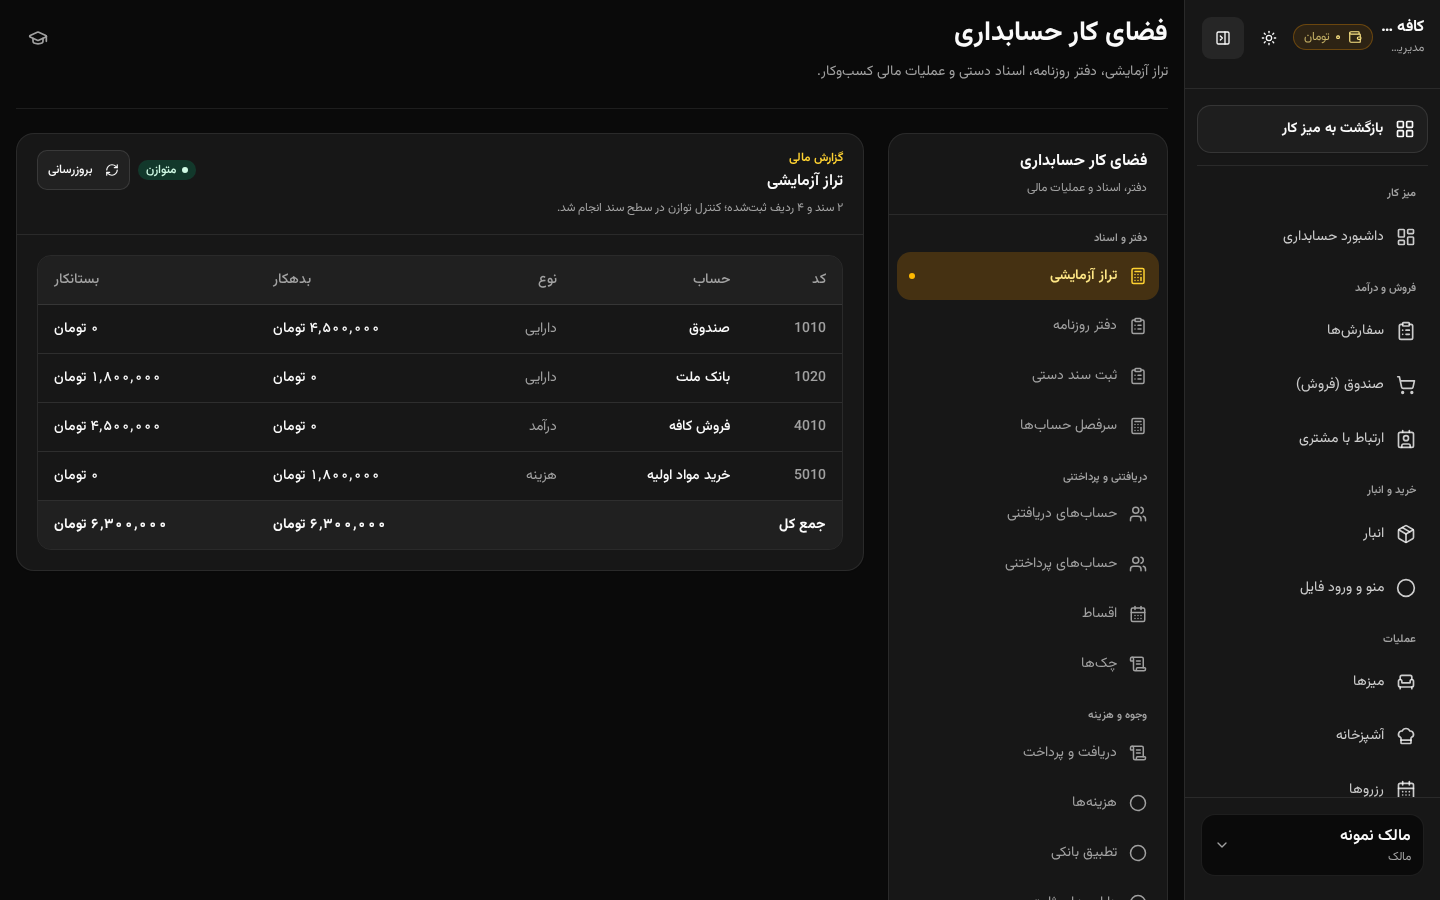
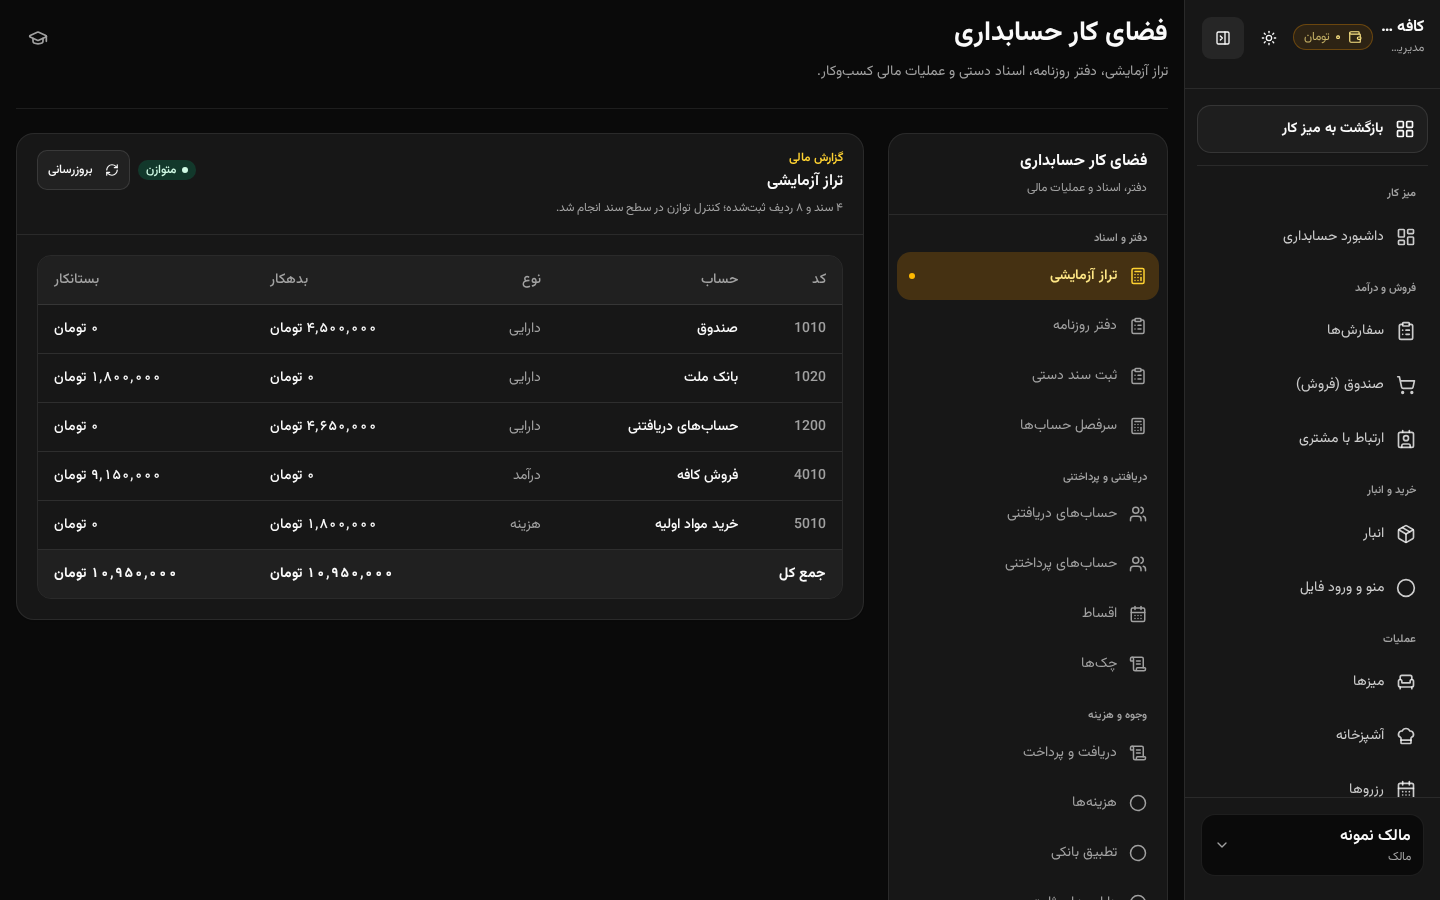
test(visual): cover migrated tables with three ledger baselines
The eleven existing baselines passed the table migration byte-identical
because none of them rendered a migrated table, so that run was not
evidence. Add chart-of-accounts, expenses and receivables.

Two of the three first photographed empty states, so extend the visual
fixture with expenses and receivable-raising cheques (A/R balances are
derived from journal lines on account 1200 via the originating cheque,
not stored on the party). The new 1200/5020 accounts add one reviewed
row to the trial-balance baselines.

Add an `anchor` option so a screen can scroll the element under test
into frame rather than photographing the form above it.

diff --git a/scripts/seed-visual-fixture.ts b/scripts/seed-visual-fixture.ts
@@ -67,6 +67,11 @@ async function main() {
       { code: "1020", name: "بانک ملت", type: "asset" },
       { code: "4010", name: "فروش کافه", type: "revenue" },
       { code: "5010", name: "خرید مواد اولیه", type: "expense" },
+      // 1200 is WELL_KNOWN_CODES.accountsReceivable — the A/R screens read
+      // balances from journal lines posted to exactly this code, so without it
+      // «حسابهای دریافتنی» photographs as an empty state.
+      { code: "1200", name: "حسابهای دریافتنی", type: "asset" },
+      { code: "5020", name: "اجاره محل", type: "expense" },
     ];
     const accountIds = new Map<string, string>();
     for (const account of ACCOUNTS) {
@@ -216,9 +221,97 @@ async function main() {
       );
     }
 
+    // ---- Expenses ----------------------------------------------------------
+    // The «هزینهها» register reads the `expenses` table directly, so the
+    // journal entries above do not populate it. Three rows: two categories,
+    // two payment accounts, one with a vendor and one without, which is what
+    // makes the "طرف حساب" column's «—» fallback visible in the baseline.
+    const EXPENSES: Array<{
+      memo: string;
+      date: string;
+      amount: number;
+      account: string;
+      paymentAccount: string;
+      vendor: string | null;
+    }> = [
+      { memo: "اجاره اسفند", date: "2026-03-05", amount: 240_000_000, account: "5020", paymentAccount: "1020", vendor: "املاک مرکزی" },
+      { memo: "خرید دانه قهوه", date: "2026-03-12", amount: 18_000_000, account: "5010", paymentAccount: "1010", vendor: "پخش مواد غذایی آریا" },
+      { memo: "هزینه حمل", date: "2026-03-14", amount: 3_500_000, account: "5010", paymentAccount: "1010", vendor: null },
+    ];
+    for (const expense of EXPENSES) {
+      const existing = await client.query(
+        "SELECT id FROM expenses WHERE business_id = $1 AND memo = $2",
+        [businessId, expense.memo],
+      );
+      if (existing.rowCount) continue;
+      await client.query(
+        `INSERT INTO expenses (business_id, location_id, account_id, payment_account_id, amount, expense_date, vendor, memo, created_at)
+         VALUES ($1, $2, $3, $4, $5, $6, $7, $8, $9)`,
+        [
+          businessId,
+          locationId,
+          accountIds.get(expense.account),
+          accountIds.get(expense.paymentAccount),
+          expense.amount,
+          expense.date,
+          expense.vendor,
+          expense.memo,
+          T0,
+        ],
+      );
+    }
+
+    // ---- Accounts receivable -----------------------------------------------
+    // A/R balances are derived, not stored: `listCustomerBalances` sums journal
+    // lines on account 1200 and attributes each to a party through the order,
+    // receipt or cheque the entry came from. A cheque is the cheapest of the
+    // three to seed, so each customer gets one receivable-raising entry.
+    const RECEIVABLES: Array<{ customer: string; amount: number; serial: string; due: string }> = [
+      { customer: "سارا محمدی", amount: 32_000_000, serial: "۸۸۱۲۳۴", due: "2026-04-20" },
+      { customer: "رضا کریمی", amount: 14_500_000, serial: "۸۸۱۲۳۵", due: "2026-05-02" },
+    ];
+    for (const receivable of RECEIVABLES) {
+      const existing = await client.query(
+        "SELECT id FROM cheques WHERE business_id = $1 AND serial_number = $2",
+        [businessId, receivable.serial],
+      );
+      if (existing.rowCount) continue;
+      const cheque = await client.query(
+        `INSERT INTO cheques (business_id, location_id, direction, status, serial_number, bank_name,
+                              amount, issue_date, due_date, counterparty_name, customer_id, created_at, updated_at)
+         VALUES ($1, $2, 'receivable', 'on_hand', $3, 'بانک ملت', $4, '2026-03-08', $5, $6, $7, $8, $8)
+         RETURNING id`,
+        [
+          businessId,
+          locationId,
+          receivable.serial,
+          receivable.amount,
+          receivable.due,
+          receivable.customer,
+          partyIds.get(receivable.customer),
+          T0,
+        ],
+      );
+      const entry = await client.query(
+        `INSERT INTO journal_entries (business_id, location_id, entry_date, memo, source_type, source_id, posted_at)
+         VALUES ($1, $2, '2026-03-08', $3, 'cheque', $4, $5) RETURNING id`,
+        [businessId, locationId, `چک دریافتی ${receivable.customer}`, cheque.rows[0].id, T0],
+      );
+      // Debit A/R, credit sales — the customer owes this amount.
+      for (const line of [
+        { code: "1200", debit: receivable.amount, credit: 0 },
+        { code: "4010", debit: 0, credit: receivable.amount },
+      ]) {
+        await client.query(
+          "INSERT INTO journal_lines (entry_id, account_id, debit, credit) VALUES ($1, $2, $3, $4)",
+          [entry.rows[0].id, accountIds.get(line.code), line.debit, line.credit],
+        );
+      }
+    }
+
     await client.query("COMMIT");
     console.log(
-      "Visual fixture ready: 4 accounts, 2 journal entries, 3 inventory items, 3 parties, 3 deals.",
+      "Visual fixture ready: 6 accounts, 4 journal entries, 3 inventory items, 3 parties, 3 deals, 3 expenses, 2 receivables.",
     );
   } catch (error) {
     await client.query("ROLLBACK");

diff --git a/docs/design/test-results.md b/docs/design/test-results.md
@@ -13,7 +13,7 @@ so rather than implying it passed.
 | `npm run test:design` | **4 files / 34 tests passed** | `design-lint` (14) + app `design-lint` (9) + `primitive-lint` (5) + `loading-coverage` (6). |
 | `npm run test:db` | **110 files / 1181 passed, 1 skipped** | Integration suite against the embedded Postgres. |
 | `npm run build` | **clean** | Full production build; every route compiled. |
-| `npm run test:visual` | **11/11 screens match; 8 consecutive runs clean** | Baselines recorded, reviewed and committed. |
+| `npm run test:visual` | **14/14 screens match** | Baselines recorded, reviewed and committed. |
 
 One transient failure is worth recording because the next person will hit it:
 `src/app/route-tree.test.ts` → "agrees with the production build" fails against a
@@ -23,9 +23,22 @@ this change.
 
 ## Visual regression — run, reviewed, committed
 
-The harness runs. All 11 baselines in `docs/design/visual/` were recorded
+The harness runs. All 14 baselines in `docs/design/visual/` were recorded
 against a **production build** with the deterministic fixture, opened and looked
 at one by one, and committed as approvals.
+
+**The last three exist because the first eleven proved nothing about the table
+migration.** After the migration landed, the suite reported "11 screens match"
+— byte-identical. Reading that as a pass would have been wrong: going through
+the screen list showed that *not one of the eleven rendered a migrated table*,
+so the green run was over untouched code. Three ledger registers were added —
+`accounting-chart-of-accounts`, `accounting-expenses`, `accounting-receivables`
+— and two of them then photographed **empty states**, which would have frozen
+nothing either. `scripts/seed-visual-fixture.ts` was extended with three
+expenses and two receivable-raising cheques, and the two baselines re-recorded.
+That extension also added accounts `1200` and `5020`, which legitimately changed
+the two `accounting-trial-balance` baselines (one extra row, still balanced);
+both were re-read before being re-approved.
 
 A browser was obtained by extracting the Chromium that ships inside the
 `@sparticuz/chromium` npm package (Playwright's own CDN and the Azure mirror are
@@ -218,8 +231,9 @@ Note for whoever reads the HTML: the server response for these screens is the
 waits for the skeletons to disappear *and* for the DOM to settle before it
 captures, and why grepping the SSR HTML for table markup finds nothing.
 
-Beyond the status codes, all 11 baseline screenshots were opened and read —
-which is how the two bugs above were found.
+Beyond the status codes, all 14 baseline screenshots were opened and read —
+which is how the two bugs above, the two empty-state baselines and the expenses
+column clipping were found.
 
 ## Lint enforcement was tested, not assumed
 
@@ -232,21 +246,35 @@ cannot be silently grown. The probe was deleted.
 
 ## Remaining deviations
 
-Stated plainly: **the platform is not fully migrated.** What remains, in the
-order it should be done, is the Batch A–E checklist in
-[`docs/design/coverage-matrix.md`](coverage-matrix.md). The headline items:
+**The table migration is finished.** Every hand-rolled table in the four tenant
+apps composes `DataTable`, across 35 tables in 28 files. The
+`TABLE_MIGRATION_BACKLOG` exception list was **deleted rather than shortened**:
+the lint rule is now unconditional, so any new `<thead>` in a non-operational
+tenant file fails immediately. That was re-verified after the constant was
+removed by reintroducing a hand-rolled `<thead>` and watching the rule name the
+file and line.
 
-1. **28 files still hand-roll a table** (`TABLE_MIGRATION_BACKLOG`). They are
-   named, grouped and ordered; the list can only shrink. Migrate
-   `dashboard/reports/report-table.tsx` first — three of the four reports files
-   are its consumers.
+What still deviates, in the order it should be done, is in
+[`docs/design/coverage-matrix.md`](coverage-matrix.md):
+
+1. **The expenses register clips its amount column at 1440px.** Its table sets
+   `tableClassName="min-w-[56rem]"` inside a content column narrower than that,
+   so `DataTable`'s `overflow-x-auto` kicks in and the right-hand money column
+   scrolls out of frame — visible in the `accounting-expenses` baseline. This is
+   pre-existing (the `min-w` came over unchanged from the hand-rolled table; the
+   migration did not introduce it) and it is a real horizontal scroll, not a
+   broken layout. Fixing it means deciding which of its seven columns collapses
+   first, which is a content decision, so it was not changed blind. Recorded
+   here rather than hidden by re-framing the screenshot.
 2. **Six search fields** still position their own magnifier. Each differs from
    `SearchField` in a real way (clear button at a different offset, a combobox,
    a nav filter), so they need the component to grow a prop rather than a
    copy-paste. Left deliberately.
 3. **~15 mobile card fallbacks** duplicate each other's shape beside the tables.
    A `DataTableMobileList` would remove them; they are live and each renders
-   different fields, so they were not touched blind.
+   different fields, so they were not touched blind. Note that migrating the
+   tables did *not* touch these: keeping the two halves separate is what made
+   the table diffs reviewable.
 4. **The "token conflict" was a misdiagnosis — resolved, no change needed.**
    An earlier pass in this work flagged `globals.css` defining `--primary` and
    `--ring` as teal (`oklch(0.52 0.1 205)`) while the screenshots and
@@ -283,4 +311,4 @@ order it should be done, is the Batch A–E checklist in
 3. `src/app/dashboard/primitive-lint.test.ts` — the rules, the exemptions and
    the backlog constant. The exemptions are where a lint like this goes wrong,
    so they carry their reasons inline.
-4. The deviations above, and whether item 4 should block or follow.
+4. The deviations above, and whether item 5 should block or follow.

diff --git a/docs/design/coverage-matrix.md b/docs/design/coverage-matrix.md
@@ -70,54 +70,56 @@ pattern, not drift — a per-section header would double up.
 | Dashboard → media manager | Hand-rolled chips | `FilterChip` |
 | 79 files across all apps | Hardcoded `stone-*` light/dark pairs | Theme tokens that flip automatically |
 
-## Remaining work — ordered checklist
+## Table migration — complete
 
-Every item is enforced by `TABLE_MIGRATION_BACKLOG` in
-`src/app/dashboard/primitive-lint.test.ts`: the rule is live, these files are
-named exceptions, and removing an entry is how the work is marked done. **A new
-hand-rolled table in any other file fails the check today.**
+Every hand-rolled table in the tenant-facing apps now composes `DataTable`.
+`TABLE_MIGRATION_BACKLOG` — the named-exception list that tracked this work —
+**has been deleted**, because there is nothing left on it. The rule in
+`src/app/dashboard/primitive-lint.test.ts` is now unconditional: any `<thead>`
+in a non-operational tenant file that does not import `DataTable` fails the
+check. That was verified by reintroducing one and watching it fail with the
+file and line.
 
-### Batch A — Accounting ledger tables (13 files, highest impact)
+| Batch | Files | Tables | Status |
+| --- | --- | --- | --- |
+| A — Accounting ledger | 13 | 15 | **done** |
+| B — Inventory, stock, products | 7 | 10 | **done** |
+| C — Reports | 4 | 6 | **done** |
+| D — Long tail | 4 | 4 | **done** |
 
-- [ ] `(app)/accounting/entries-section.tsx` — journal register
-- [ ] `(app)/accounting/chart-of-accounts-section.tsx`
-- [ ] `(app)/accounting/expense-section.tsx`
-- [ ] `(app)/accounting/receipts-payments-section.tsx`
-- [ ] `(app)/accounting/ar-section.tsx` and `ar-statement-panel.tsx`
-- [ ] `(app)/accounting/ap-section.tsx` and `ap-statement-panel.tsx`
-- [ ] `(app)/accounting/account-statement-panel.tsx`
-- [ ] `(app)/accounting/reconciliation-section.tsx`
-- [ ] `(app)/accounting/fiscal-periods-section.tsx`
-- [ ] `(app)/accounting/fixed-assets-section.tsx`
-- [ ] `(app)/accounting/installments-section.tsx`
+Batch B and C swapped order against the original plan: the inventory tables
+were near-duplicates of each other and of the accounting ones just finished, so
+doing them second kept the conversion in one mental model, while Reports needed
+a design decision (below) that was better taken with more of the product
+already migrated.
 
-### Batch B — Reports (4 files, one shared component)
+Two things worth knowing before touching this area again:
 
-- [ ] `dashboard/reports/report-table.tsx` — migrate this **first**; the other
-      three are its consumers and may need no change afterwards
-- [ ] `dashboard/reports/ledger-report-view.tsx`
-- [ ] `dashboard/reports/drill-down-panel.tsx`
-- [ ] `dashboard/reports/shift-orders-section.tsx`
+- **`report-table.tsx` was not replaced.** It is the reports section's own
+  declarative table — columns as data, desktop grid and phone cards generated
+  from one declaration — and that is a genuinely better abstraction for those
+  screens. It now composes `DataTable` internally, so its three consumers
+  inherit the shared chrome without changing a line.
+- **The primitive grew exactly two props**, each forced by a real caller:
+  `DataTable frame={false}` for a table that sits inside a `flush` SectionCard
+  and would otherwise draw a hairline inside a hairline, and `Th scope="row"`
+  for a totals row that labels its figures with a row header. Both keep their
+  previous behaviour as the default.
 
-### Batch C — Inventory, stock and products (7 remaining of 8)
+### What the conversion changed beyond deduplication
 
-- [ ] `dashboard/inventory/documents-section.tsx`
-- [ ] `dashboard/inventory/purchases-section.tsx`
-- [ ] `dashboard/inventory/stock-section.tsx`
-- [ ] `dashboard/stock/documents-section.tsx`
-- [ ] `dashboard/stock/stock-levels-section.tsx`
-- [x] `dashboard/stock/warehouses-section.tsx` — done in this PR
-- [ ] `dashboard/products/price-lists-section.tsx`
-- [ ] `dashboard/products/products-list-section.tsx`
+- **Accessible names.** `DataTable` makes `caption` required. Most of these
+  tables had none and presented to a screen reader as an unnamed grid.
+- **Money columns are end-aligned.** The approved trial-balance screenshot
+  shows them that way; the majority of the migrated tables had them
+  start-aligned.
+- **Judgement the mapping could not make.** A Jalali date carrying
+  `tabular-nums` is *not* a numeric column — it keeps tabular figures and stays
+  start-aligned. Nor is an end-aligned action column: it says `text-end`
+  directly rather than borrowing `numeric` and picking up tabular figures and a
+  medium weight. Same for two-line quantity cells.
 
-### Batch D — Long tail (4 files)
-
-- [ ] `dashboard/parties/parties-section.tsx`
-- [ ] `dashboard/locations/locations-manager.tsx`
-- [ ] `dashboard/backup/backup-manager.tsx`
-- [ ] `setup/accounts/page.tsx`
-
-### Batch E — Not yet covered by any automated rule
+### Remaining — not yet covered by any automated rule
 
 - [x] **Search fields**: the four files whose markup matched `SearchField`
       exactly were migrated in this PR (inventory + stock `warehouses-section`,

diff --git a/docs/design/visual-regression.md b/docs/design/visual-regression.md
@@ -27,6 +27,9 @@ It also runs on every pull request (`.github/workflows/test.yml`, job
 | `accounting-trial-balance-dark` | Accounting | The same screen in dark mode — the tokens must flip, nothing hardcoded |
 | `accounting-orders` | Accounting | Page header, search + filter chips, order queue, rich empty states |
 | `accounting-inventory` | Accounting | Section nav, form card, filters, data table, status badges |
+| `accounting-chart-of-accounts` | Accounting | The widest migrated `DataTable`: seven columns, tree indentation, two badge kinds, row actions |
+| `accounting-expenses` | Accounting | A migrated register below a form — money column, `—` fallbacks, totals footer |
+| `accounting-receivables` | Accounting | Tab bar above a migrated table with an in-row action link |
 | `crm-overview` | CRM | KPI tiles, section cards |
 | `crm-deals` | CRM | Pipeline columns on the shared card skin |
 | `growth-overview` | Growth and Marketing | KPI tiles |
@@ -34,6 +37,14 @@ It also runs on every pull request (`.github/workflows/test.yml`, job
 | `websites-cms` | Website Management (Eshobe CMS) | Manager landing, stacked cards |
 | `websites-wp` | Website Management (WP/Woo) | The peer manager — deliberately its own screen, not the CMS's |
 | `settings-business` | Settings | Section nav, stacked form cards, selected money-unit control |
+
+The last three were added *after* the table migration, and the reason is worth
+keeping: the eleven screens above them all passed that migration byte-identical
+— not because nothing changed, but because **not one of them rendered a
+migrated table**. A green run over screens that do not include the code under
+test is not evidence. When you change a surface, check it is actually in
+`SCREENS` before reporting a pass, and open the PNG to check it is not
+photographing an empty state.
 
 ## Determinism
 
@@ -76,6 +87,14 @@ not a cache. Re-recording without reading the diff silently converts a
 regression into the new normal, which is exactly the failure mode this check
 exists to prevent.
 
+## Framing: the `anchor` option
+
+A screen entry may carry `anchor: "<css selector>"`, which scrolls that element
+to the top of the viewport before the shot. `accounting-expenses` uses it: the
+register sits under its entry form, so the default viewport frames the form and
+one row of the table the baseline exists to protect. The harness throws if the
+selector matches nothing, rather than silently recording the unscrolled frame.
+
 ## Adding a screen
 
 Add an entry to `SCREENS` in `scripts/visual-regression.mjs`, run
@@ -116,7 +135,14 @@ re-run that loop; one green run proves nothing.
 empty state — a baseline that cannot catch a regression in how a row, an amount
 or a badge renders. `npm run db:seed:visual` adds a fixed cast on top: four
 accounts with two balanced journal entries, three stock items, three parties and
-three CRM deals.
+three CRM deals, plus three expenses and two receivable-raising cheques.
+
+Those last two groups were added when the three ledger baselines were recorded:
+both `accounting-expenses` and `accounting-receivables` first photographed their
+empty states. Note that A/R balances are *derived* — `listCustomerBalances` sums
+journal lines on the `1200` account and attributes each to a party through the
+order, receipt or cheque its entry came from — so seeding a party is not enough;
+the fixture posts a cheque and its journal entry.
 
 Every value in that fixture is hard-coded. No `Math.random`, no `new Date()`, no
 faker — a fixture that varies produces a baseline that disagrees with itself on

diff --git a/docs/design/PR-description.md b/docs/design/PR-description.md
@@ -104,9 +104,12 @@ Both had passed every text-based test in the repo:
 
 ## Not done, on purpose
 
-The platform is **not** fully migrated. 28 tables, six search fields and ~15
-mobile card fallbacks remain, ordered as Batch A–E in
-`docs/design/coverage-matrix.md`.
+The **table migration is complete**: every hand-rolled table in the four tenant
+apps now composes `DataTable`, and the `TABLE_MIGRATION_BACKLOG` exception list
+has been deleted rather than shortened, so the lint rule is now unconditional.
+Six bespoke search fields and ~15 mobile card fallbacks remain, both blocked on
+a prop design rather than on effort, and both listed with their blocking
+decision in `docs/design/coverage-matrix.md`.
 
 An earlier pass in this work flagged a "token conflict" — `globals.css` defining
 `--primary` as teal while the screenshots use amber — and proposed repainting the
